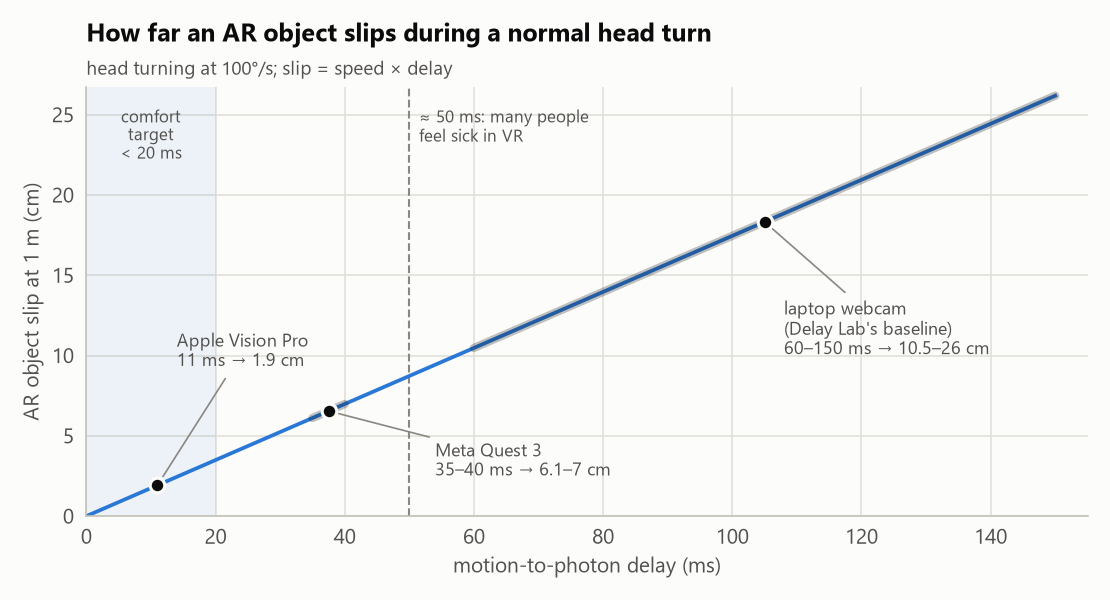
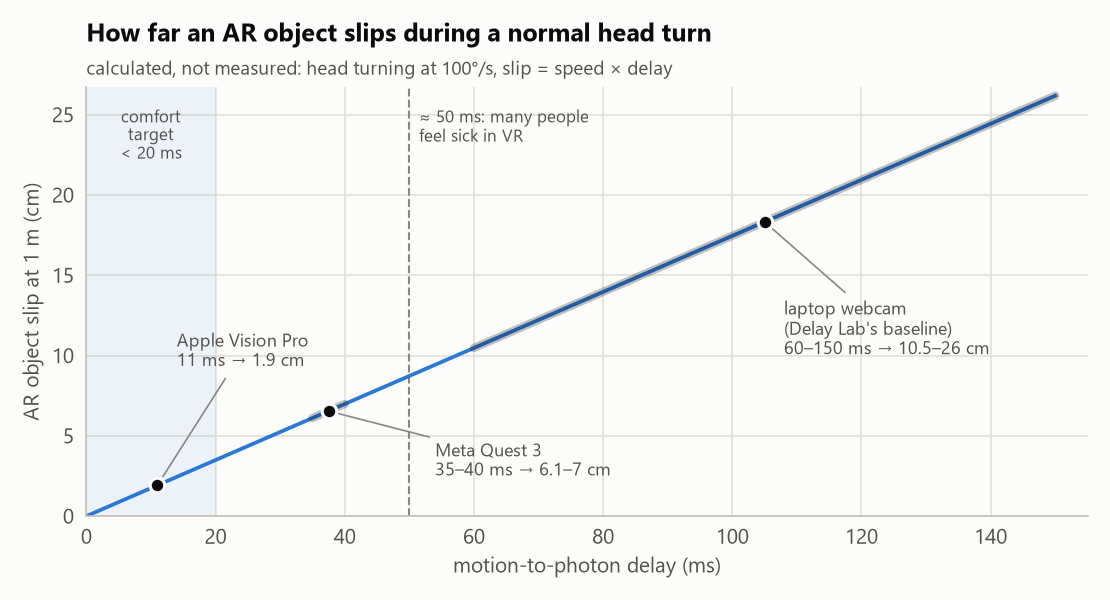
docs: state plainly what is measured and what is still pending
The README presented the project as a demonstrated result, but the only
real measurement is one 2.5 s self-test clip. Now:
- a status box separates verified (app runs live, exe, tests) from
  pending (the 20 s sweep recording and the clap test);
- the 2.5 s clip is called preliminary, not a result;
- the expected-sweep chart is labelled a prediction from synthetic data;
- the slip chart and hero illustration say they are calculated / example
  numbers, not measurements;
- the demo script says to record the real sweep before the talk.

Changed region(s): [[0.0613, 0.09, 0.6126, 0.15]]

diff --git a/docs/make_figures.py b/docs/make_figures.py
@@ -56,7 +56,7 @@ def slip_chart(out: Path) -> None:
     ax.set_xlabel("motion-to-photon delay (ms)", color=cs.INK_2)
     ax.set_ylabel("AR object slip at 1 m (cm)", color=cs.INK_2)
     cs.finish(fig, ax, out, "How far an AR object slips during a normal head turn",
-              f"head turning at {HEAD_SPEED_DEG_S}°/s; slip = speed × delay")
+              f"calculated, not measured: head turning at {HEAD_SPEED_DEG_S}°/s, slip = speed × delay")
 
 
 def expected_sweep(out: Path) -> None:

diff --git a/README.md b/README.md
@@ -15,12 +15,22 @@
 </p>
 
 <p align="center">
-  <img src="docs/img/modes.svg" alt="The three modes at 100 ms of delay: VR-style room, AR-style sticker sliding off the nose, AR + fix sticker back on the nose" width="100%">
+  <img src="docs/img/modes.svg" alt="Illustration of the three modes at 100 ms of delay: VR-style room, AR-style sticker sliding off the nose, AR + fix sticker back on the nose" width="100%"><br>
+  <sub>Illustration of the three modes. The gap numbers in it are examples, not measurements.</sub>
 </p>
 
 > [!TIP]
 > **No headset needed.** A laptop with a webcam is enough. Pick a delay with the slider,
 > switch between <kbd>V</kbd> VR-style, <kbd>A</kbd> AR-style and <kbd>F</kbd> AR + fix, and watch the difference.
+
+> [!IMPORTANT]
+> **Status: the app works; the main measurement has not been done yet.**
+>
+> | | |
+> |---|---|
+> | ✅ **Verified** | The app runs live on a laptop webcam (~30 fps, face found in ~100% of frames). All three modes, recording and the sweep run end to end. The packaged exe runs without Python. 26 tests pass. |
+> | ⏳ **Pending** | The proper **20-second sweep recording** the experiment is built around, and the clap test for the webcam's own delay. |
+> | ⚠ **So far** | The only real measurement is one **2.5 s self-test clip**. It is a first sign, not a result ([details](#-the-experiment)). |
 
 **Contents:** [The idea](#-the-idea-in-30-seconds) · [Quick start](#-quick-start) · [Controls](#-controls) · [What you see](#-what-you-see) · [The experiment](#-the-experiment) · [How it works](#-how-it-works) · [Real numbers](#-real-world-numbers) · [Presenting](#-presenting-it) · [DelayLab.exe](#-delaylabexe) · [Help](#-troubleshooting)
 
@@ -40,7 +50,8 @@ and then switches on the fix real headsets use (**prediction**) to show how much
 </p>
 
 > **slip = head speed × delay.** At a normal 100°/s head turn, 20 ms of delay moves an AR object
-> 1 m away by about **3.5 cm**. That's easy to spot on a cup on a table.
+> 1 m away by about **3.5 cm**. That's easy to spot on a cup on a table. *(This chart is calculated
+> from that formula and published latency figures. It is not a Delay Lab measurement.)*
 
 ---
 
@@ -129,7 +140,9 @@ flowchart LR
   <img src="docs/img/expected_sweep.png" alt="Expected sweep chart: without the fix the gap grows in a straight line on the speed times delay prediction; with the fix it stays several times smaller" width="720">
 </p>
 
-This chart is the **expected shape**, computed from a synthetic head track. Your own `results/sweep.png` replaces it.
+This chart is a **prediction, not a measurement**: it comes from a synthetic sine-wave head track run through
+the real sweep code. It shows what the result should look like if the idea holds. The real chart comes from a
+20-second recording, which has not been made yet.
 
 | What you should see | What it means |
 |---|---|
@@ -139,8 +152,11 @@ This chart is the **expected shape**, computed from a synthetic head track. Your
 | ❌ **A clearly bent line, or a fix that doesn't help** | Would prove us wrong: tracker jitter beats the delay effect |
 
 > [!NOTE]
-> A first real run on a 2.5 s self-test clip already showed this pattern: a straight line on the prediction
-> (12.5 px at 100 ms), the fix about 3× smaller (4.4 px), and jitter of only 0.4 px.
+> **Only preliminary real data so far.** The one real run is a 2.5-second, 68-frame clip recorded during a
+> self-test, with no controlled head motion. It points the same way: 12.5 px at 100 ms without the fix,
+> 4.4 px with it, and 0.4 px of jitter. But it is far too short to count as the result. **Still pending:**
+> 20 s of smooth side-to-side head turns (<kbd>R</kbd> … <kbd>R</kbd>, then <kbd>S</kbd>). Its chart will
+> replace the prediction above.
 
 ---
 

diff --git a/docs/DEMO_SCRIPT.md b/docs/DEMO_SCRIPT.md
@@ -3,11 +3,15 @@
 Set-up before the talk: laptop on the projector, `python app.py` (or `DelayLab.exe`) running, window dragged large or `W` for fullscreen, good
 front lighting on your face, `results/sweep.png` open in a second window.
 
+> **Before the talk, record the real sweep:** press R, turn your head smoothly side to side for about 20 s,
+> press R, then S. Show *that* chart in step 3. Don't present the synthetic "expected result" chart
+> from the README as a measurement.
+
 | # | Time | Mode | Slider | What you do | What you say |
 |---|------|------|--------|-------------|--------------|
 | 1 | 1 min | **A** (AR-style) | 0 → 100 | At 0 the red sticker sits on your nose. Slide to 100 and turn your head side to side. | "Same frame, no added delay: perfect. Add 100 ms and the sticker slides off. The number at the top is how far, in pixels." |
 | 2 | 1 min | **V** (VR-style) | 100 | Lean left and right. The room follows, a little late. | "Same delay. Nothing looks *wrong*, because there is no real world to compare against. In a headset you'd *feel* it as floatiness, and around 50 ms many people start to feel sick." |
-| 3 | 1 min | (chart) | – | Show `sweep.png`. | "Recorded once, replayed at every delay. The red line is close to straight, as slip = head speed × delay predicts. The dotted line is that prediction." |
+| 3 | 1 min | (chart) | – | Show your own `results/sweep.png` from the 20 s recording. | "Recorded once, replayed at every delay. The red line is close to straight, as slip = head speed × delay predicts. The dotted line is that prediction." |
 | 4 | 1 min | **F** (AR + fix) | 100 | Turn smoothly: the sticker mostly stays put. Then stop suddenly. | "Real headsets guess ahead. That removes most of the error. But when I stop, it overshoots for a moment. That leftover is why headsets also need fast hardware." |
 | 5 | 1 min | – | – | Point at the numbers. | "Vision Pro: about 11 ms. Quest 3: about 35–40 ms. This webcam: about **[your number]** ms. AR has to hit numbers VR can get away with missing. That's why AR is the harder problem." |
 
